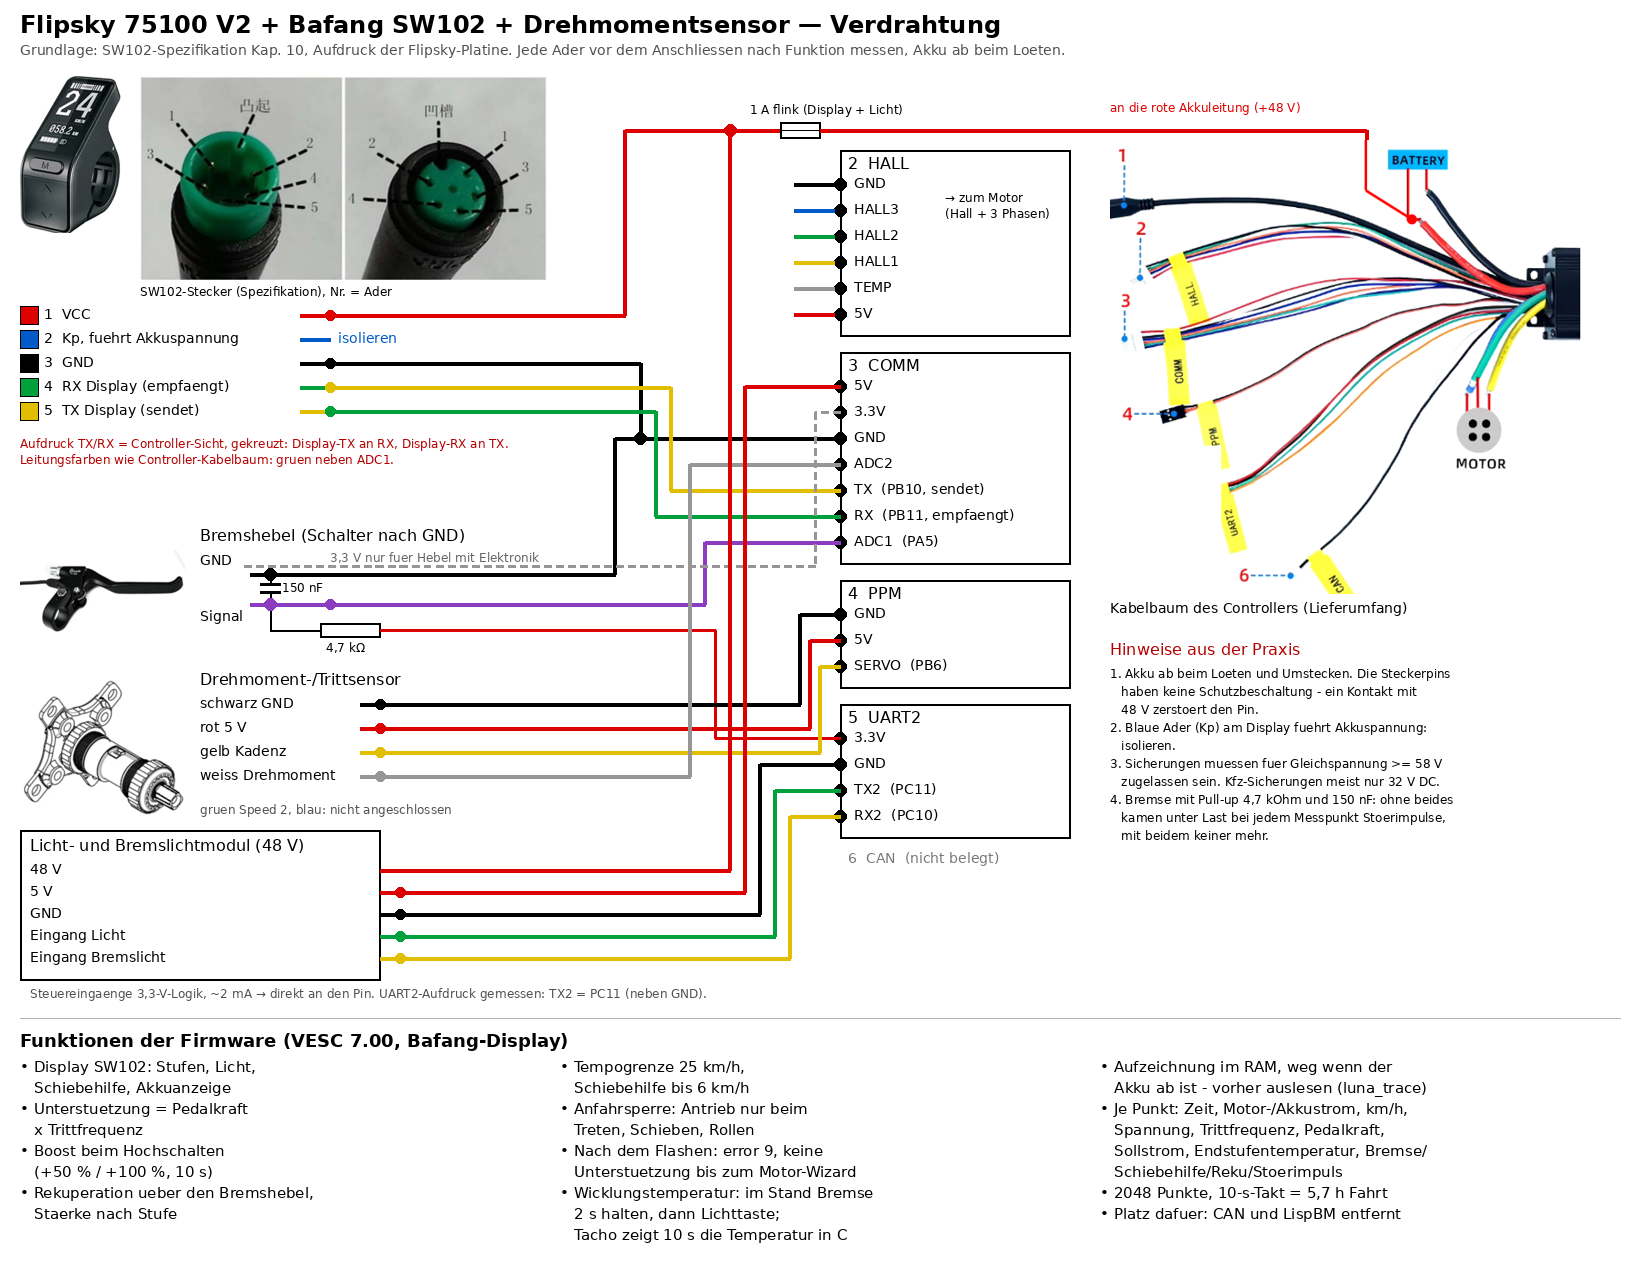
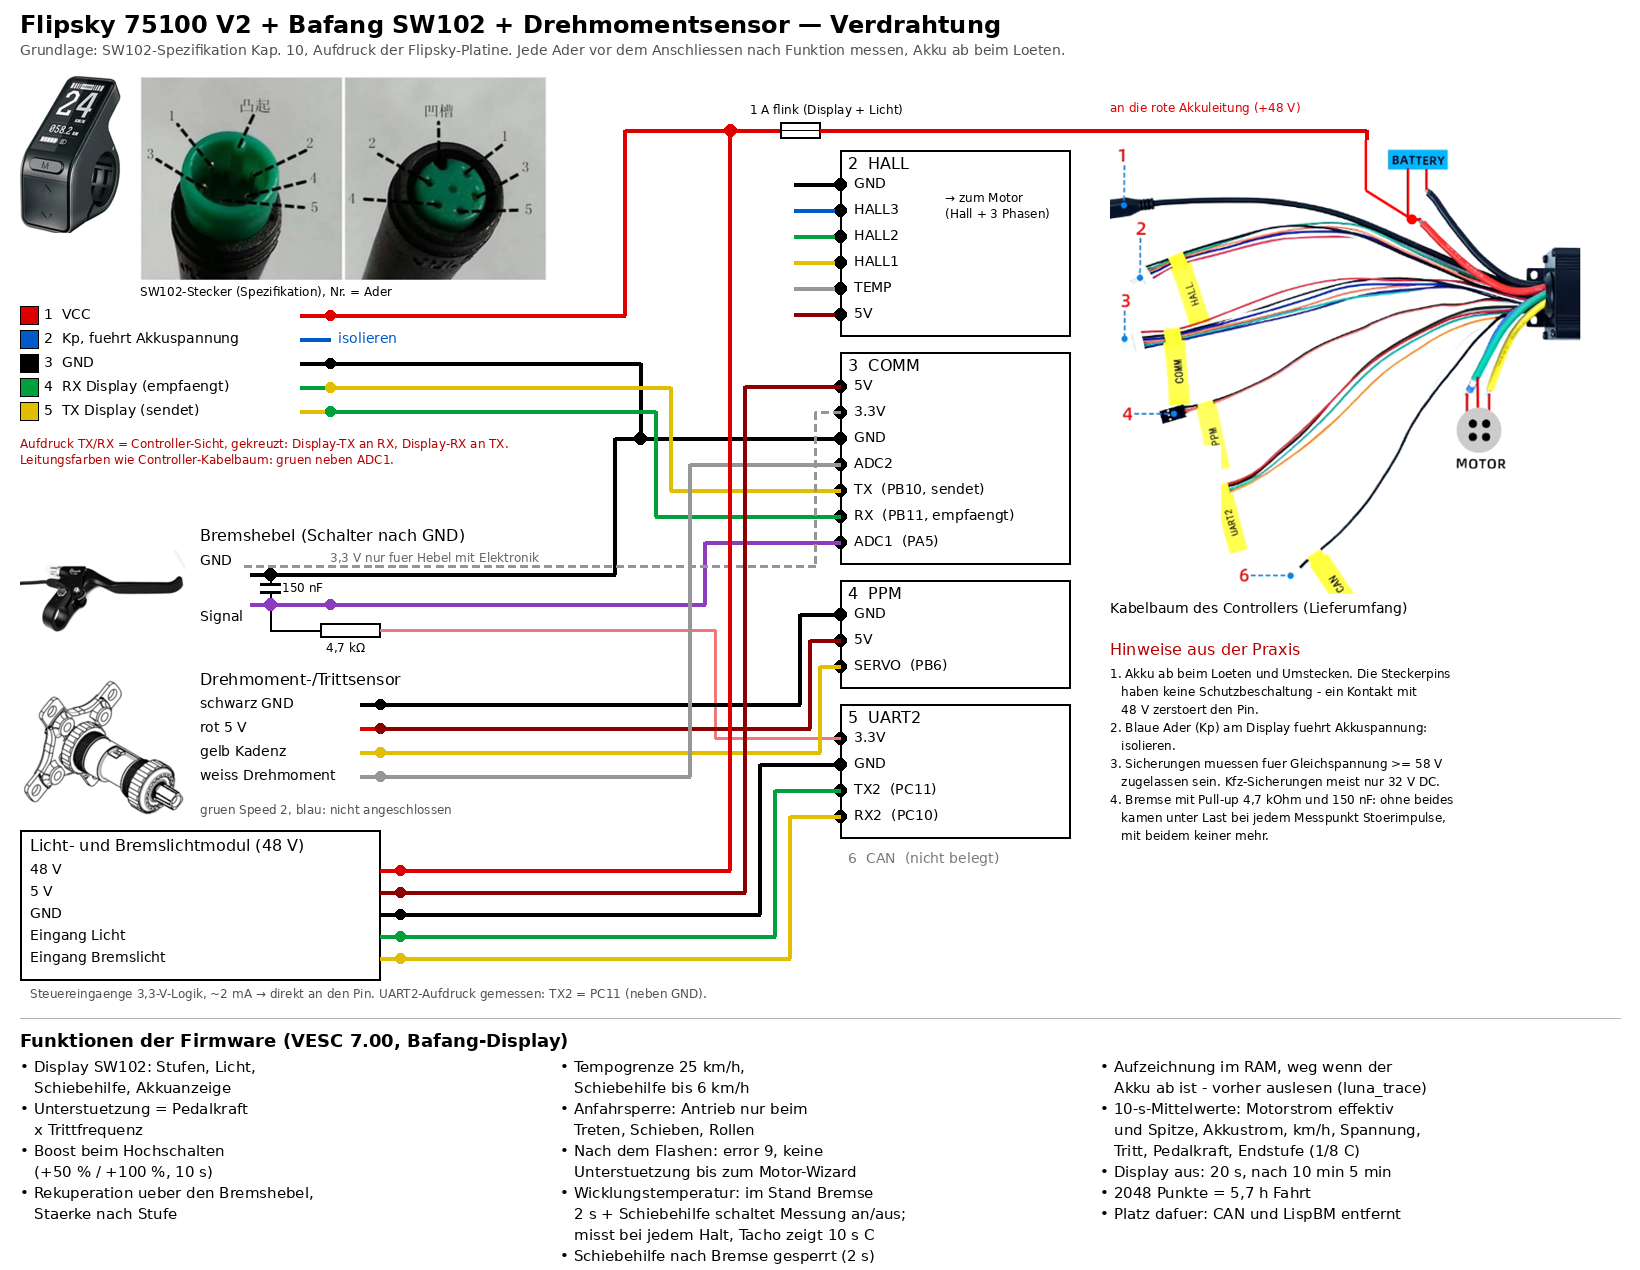
Plan und README: Temperatur ueber Bremse+Schiebehilfe, Sperre, Logging; Farben 5 V/3,3 V

diff --git a/README_EBIKE.md b/README_EBIKE.md
@@ -17,9 +17,20 @@ Grundlage.
   Akkustrom höchstens 10 A
 - Anfahrsperre: Antrieb nur beim Treten, Schieben oder rollendem Rad
 - Stufentabellen relativ zum eingestellten Motorstrom (Bezug 60 A)
-- Wicklungstemperatur über den Widerstand (`luna_rmess`): im Stand Bremse 2 s halten, dann Lichttaste – der Tacho zeigt 10 s lang die Temperatur in °C (0–98, braucht einmal `luna_rmess kalib` bei kaltem Motor)
-- Aufzeichnung im RAM, 2048 Punkte (`luna_trace`), 10-s-Takt = 5,7 h Fahrt.
-  Weg, wenn der Akku ab ist. Dafür sind CAN und LispBM entfernt.
+- Wicklungstemperatur über den Widerstand (`luna_rmess`): im Stand Bremse
+  ≥ 2 s halten + Schiebehilfe-Taste schaltet die Messung an/aus. Ist sie an,
+  misst der Controller bei jedem Halt mit ≥ 2 s Bremse (höchstens einmal je
+  Minute), und der Tacho zeigt 10 s die Temperatur in °C (0–98). Braucht
+  einmal `luna_rmess kalib` bei kaltem Motor.
+- **Sicherheit:** Wird die Schiebehilfe bei gezogener Bremse gedrückt, ist
+  sie gesperrt, bis die Taste losgelassen ist und 2 s vergangen sind. Das
+  Loslassen der Bremse startet nie den Motor.
+- Die Lichttaste schaltet nur das Licht.
+- Aufzeichnung im RAM, 2048 Punkte (`luna_trace`): bei Display an alle 10 s
+  Mittelwerte (Motorstrom als Effektivwert und Spitze, Akkustrom, Tempo,
+  Spannung, Trittfrequenz, Pedalkraft, Endstufe auf 1/8 °C) = 5,7 h Fahrt;
+  bei Display aus 10 min alle 20 s, danach alle 5 min. Weg, wenn der Akku
+  ab ist. Dafür sind CAN und LispBM entfernt.
 
 ## Inbetriebnahme
 1. Bauen: `make 75_100_V2` – oder die fertige `.bin` aus den Releases nehmen
